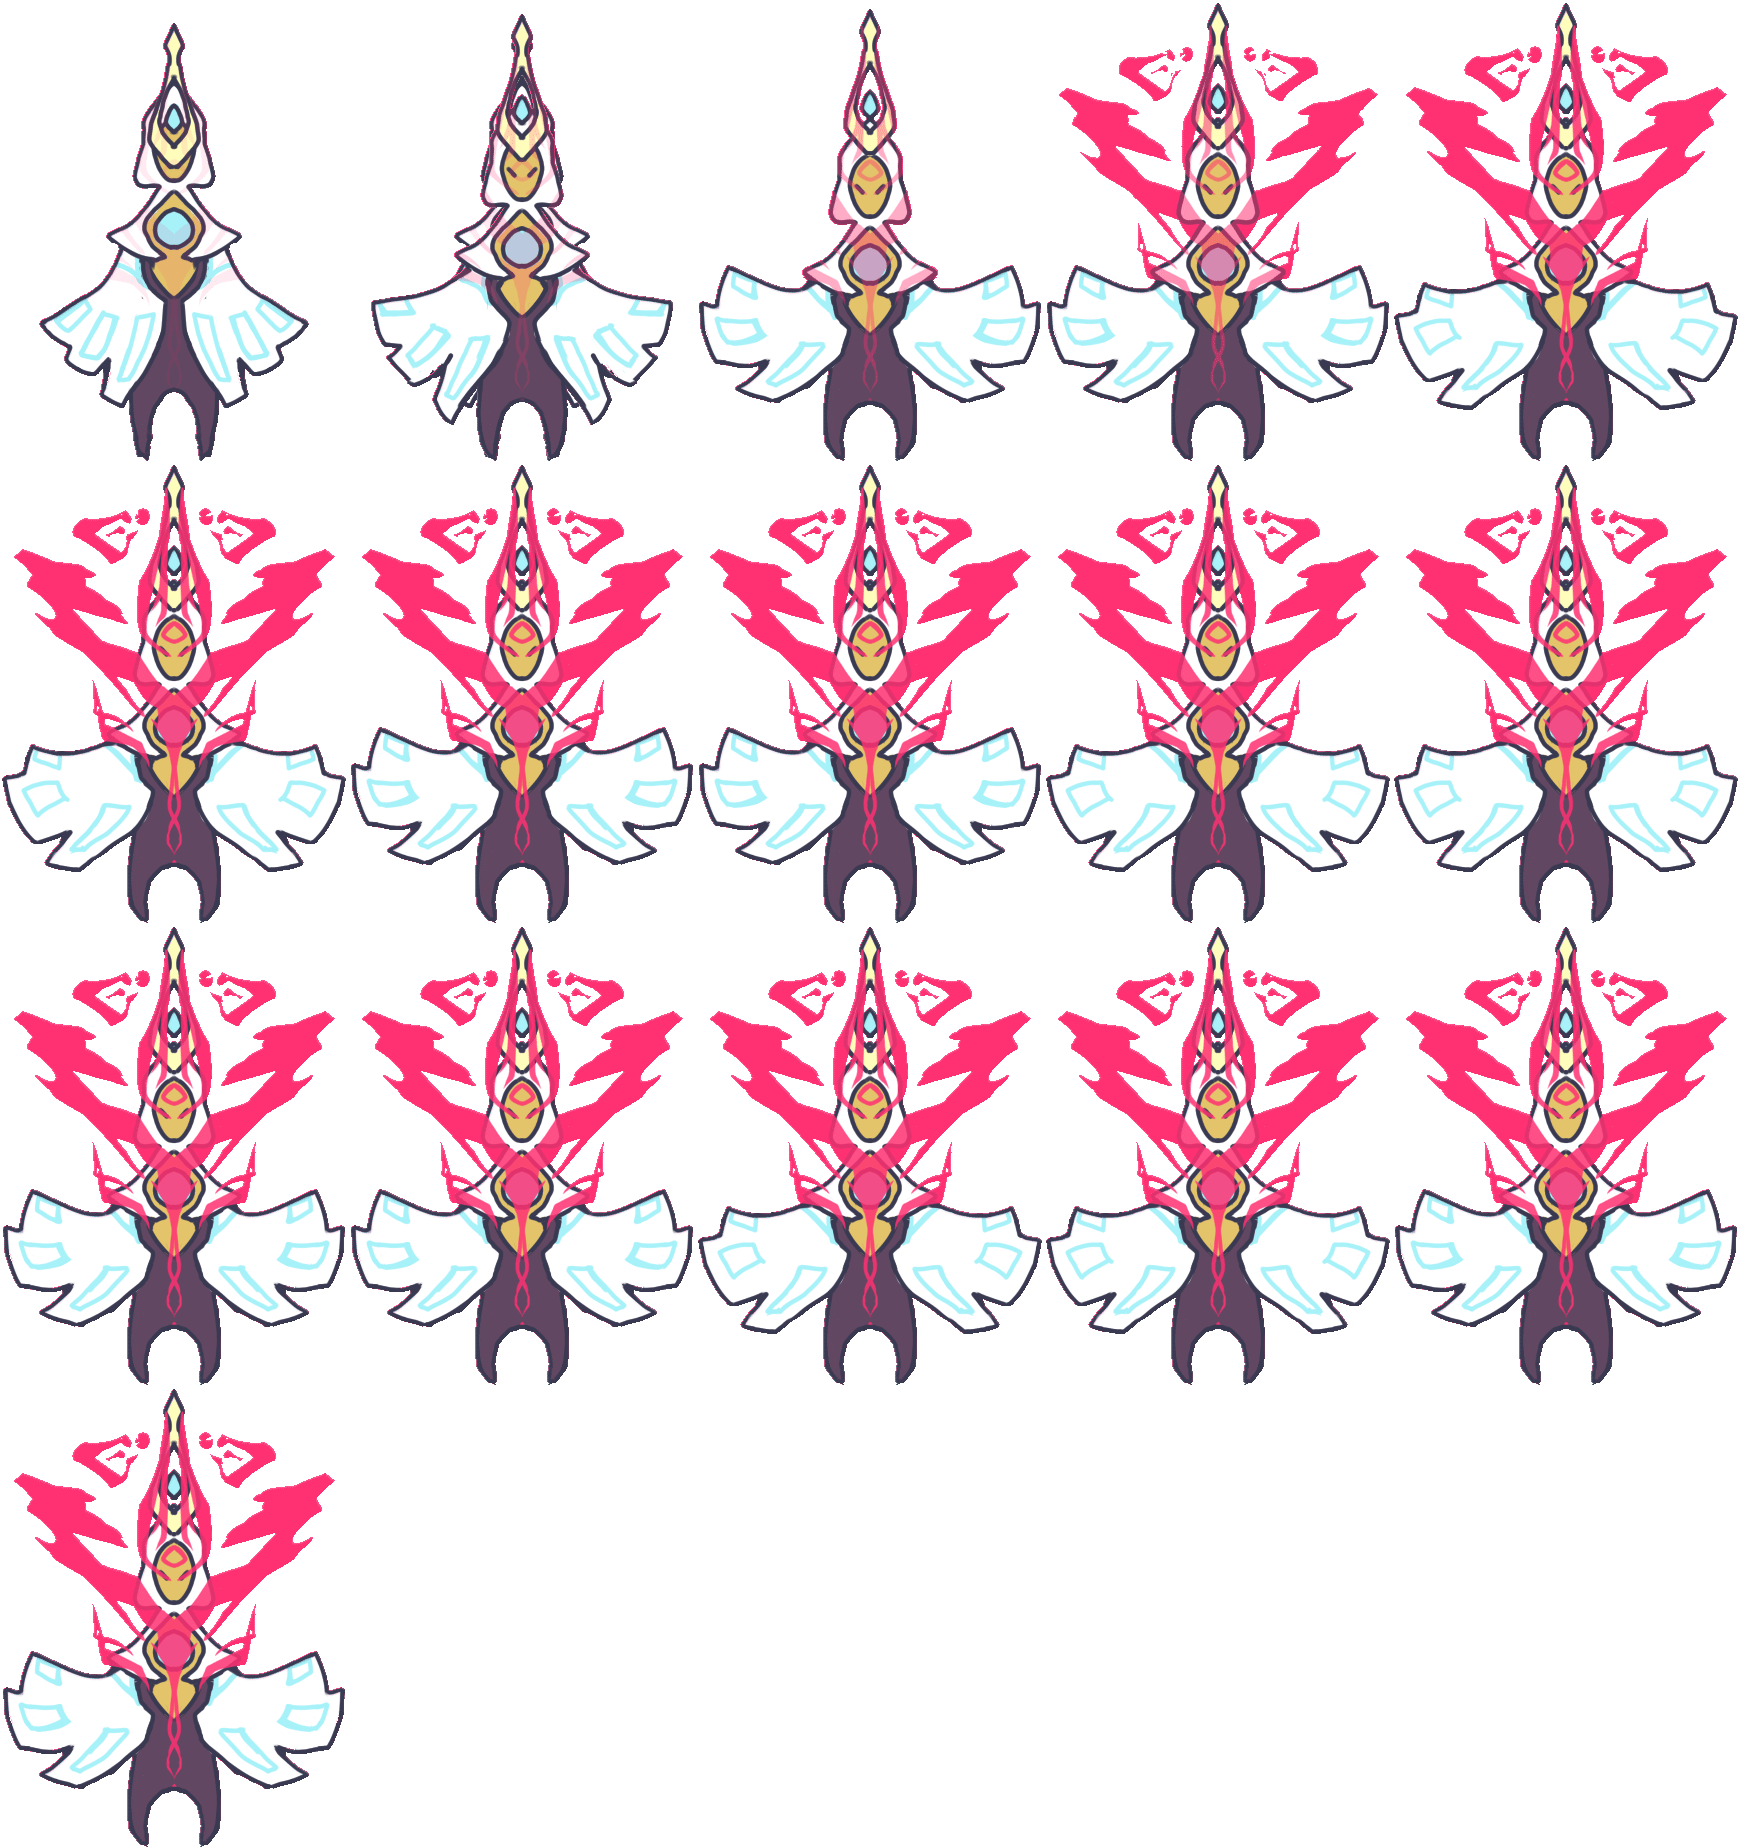
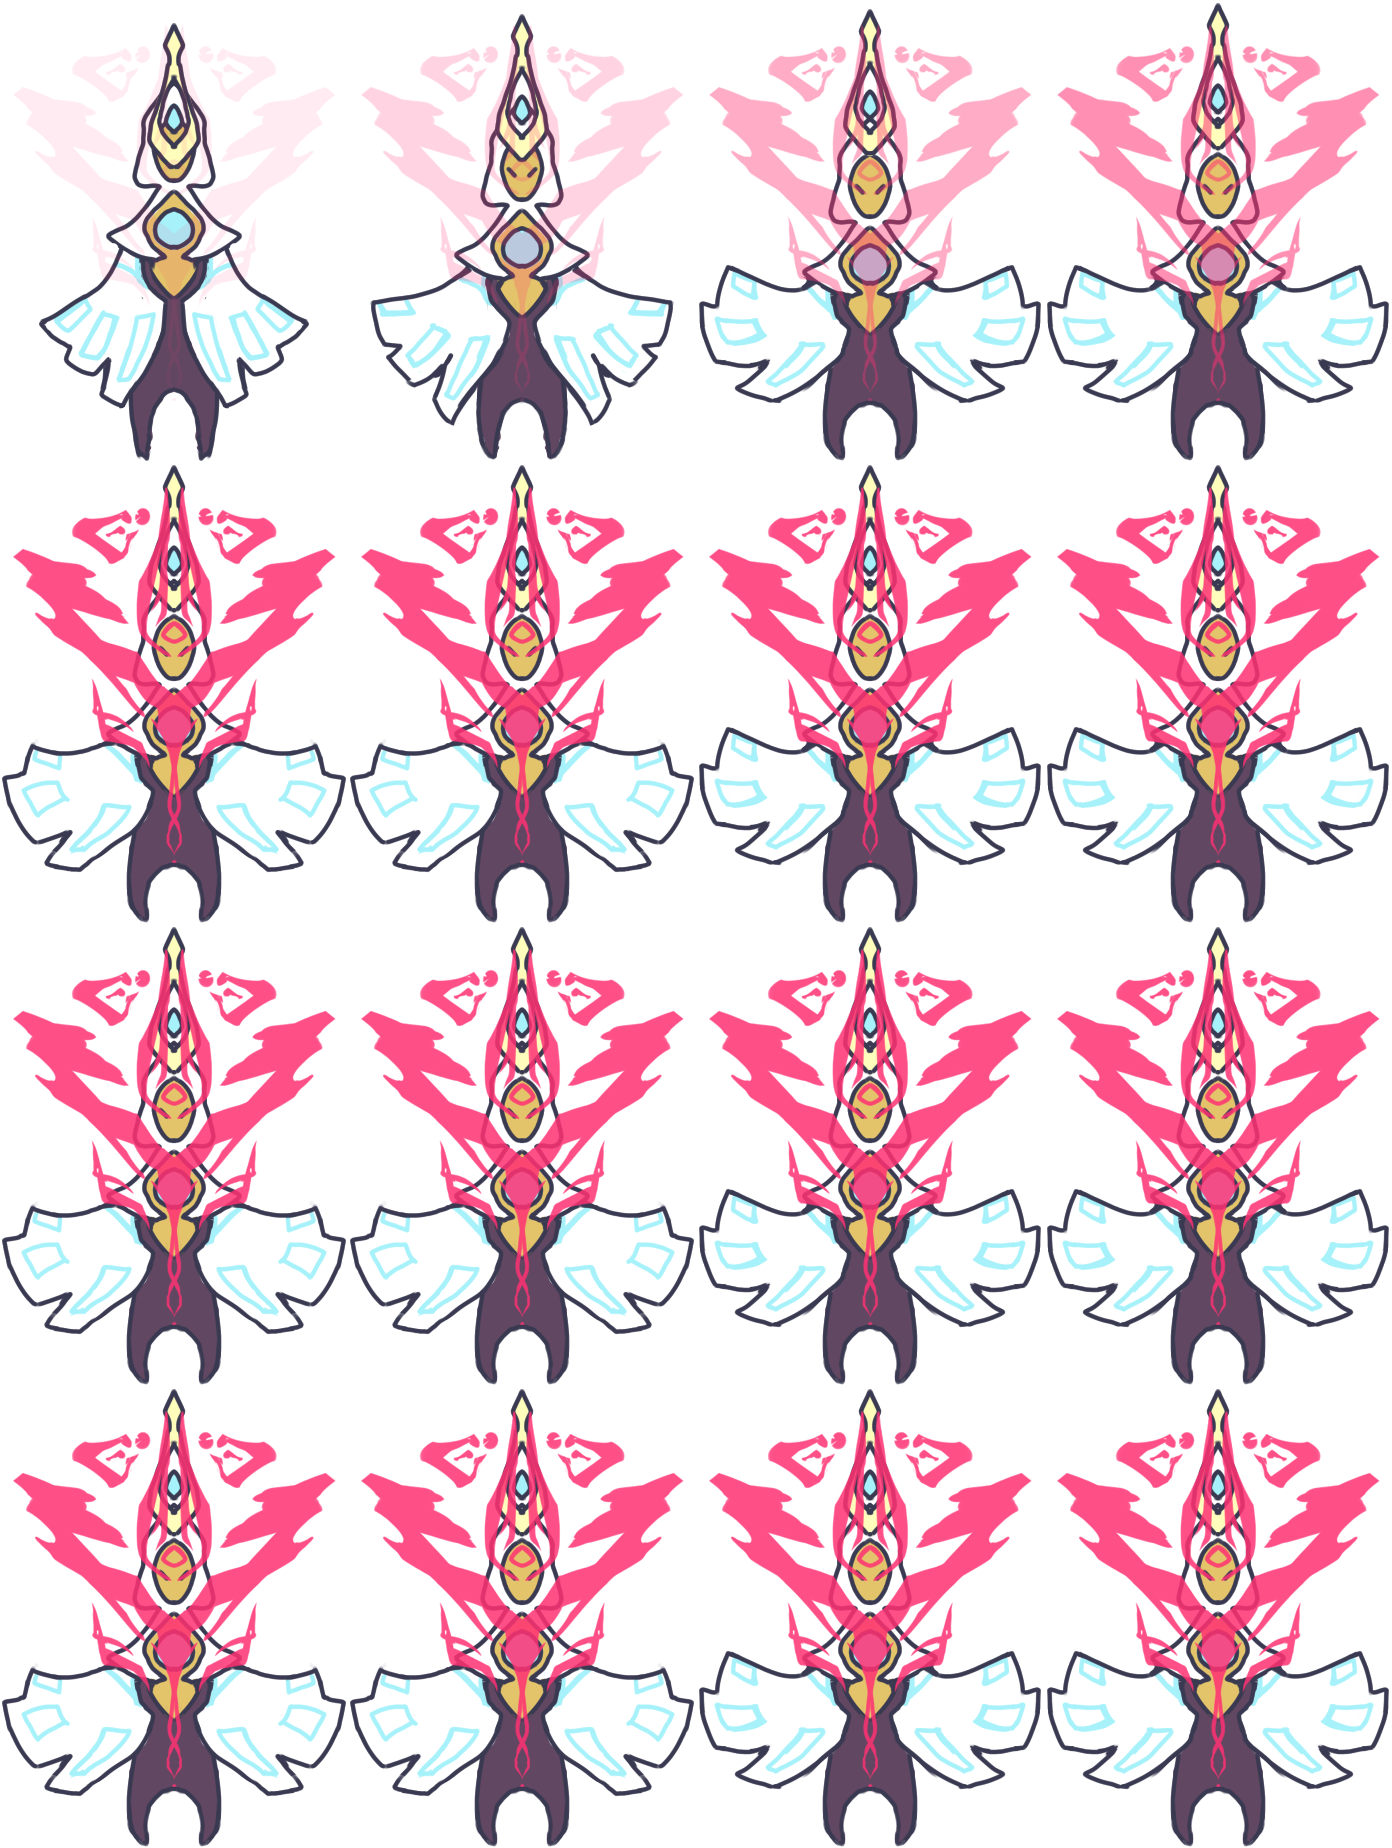
Refine teleporting enemy animation

diff --git a/Prototype/core/src/edu/cornell/gdiac/tempus/tempus/EnemyController.java b/Prototype/core/src/edu/cornell/gdiac/tempus/tempus/EnemyController.java
@@ -538,6 +538,7 @@ public class EnemyController {
         for (Enemy e: enemies) {
             if (e.getAi() != Enemy.EnemyType.TELEPORT) {
                 e.animate(Enemy.EnemyState.NEUTRAL, true);
+                e.setAnimationState(Enemy.EnemyState.NEUTRAL);
             }
         }
     }
@@ -570,17 +571,21 @@ public class EnemyController {
                 if (e.getAi() == Enemy.EnemyType.TELEPORT) {
                     if (e.getTeleportTo() != null && e.getFramesTillFire() < 60) {
                         e.animate(Enemy.EnemyState.ATTACKING, false);
+                        e.setAnimationState(Enemy.EnemyState.ATTACKING);
                         e.drawFade(canvas, e.getFramesTillFire(), 1f / 60f);
                     } else if (framesAfterMove > 0 && framesAfterMove < 60) {
                         e.animate(Enemy.EnemyState.ATTACKING, false);
+                        e.setAnimationState(Enemy.EnemyState.ATTACKING);
                         e.drawFade(canvas, framesAfterMove, 1f / 60f);
                         framesAfterMove += 1;
                     } else {
                         e.animate(Enemy.EnemyState.NEUTRAL, true);
+                        e.setAnimationState(Enemy.EnemyState.NEUTRAL);
                         e.draw(canvas, playerVisible);
                     }
                 } else {
                     e.animate(Enemy.EnemyState.NEUTRAL, true);
+                    e.setAnimationState(Enemy.EnemyState.NEUTRAL);
                     e.draw(canvas, playerVisible);
                 }
 //            } else if (!shifted && (e.getSpace() == 1)) { // present world

diff --git a/Prototype/core/src/edu/cornell/gdiac/tempus/tempus/models/Enemy.java b/Prototype/core/src/edu/cornell/gdiac/tempus/tempus/models/Enemy.java
@@ -75,6 +75,8 @@ public class Enemy extends CapsuleObstacle {
     /** Texture filmstrip for enemy after tp */
     private FilmStrip tpEndTexture;
 
+    /** The current animation state */
+    public EnemyState animationState = EnemyState.NEUTRAL;
     /** The texture filmstrip for the current animation */
     private FilmStrip currentStrip;
     /** The texture filmstrip for the neutral animation */
@@ -820,6 +822,10 @@ public class Enemy extends CapsuleObstacle {
         }
     }
 
+    public void setAnimationState(EnemyState s){
+        this.animationState = s;
+    }
+
     /**
      * Animates the given state.
      *
@@ -839,6 +845,11 @@ public class Enemy extends CapsuleObstacle {
             break;
         default:
             assert false : "Invalid EnemyState enumeration";
+        }
+
+        // when beginning a new state, set frame to first frame
+        if (animationState != state) {
+            currentStrip.setFrame(0);
         }
 
         // Adjust animation speed
